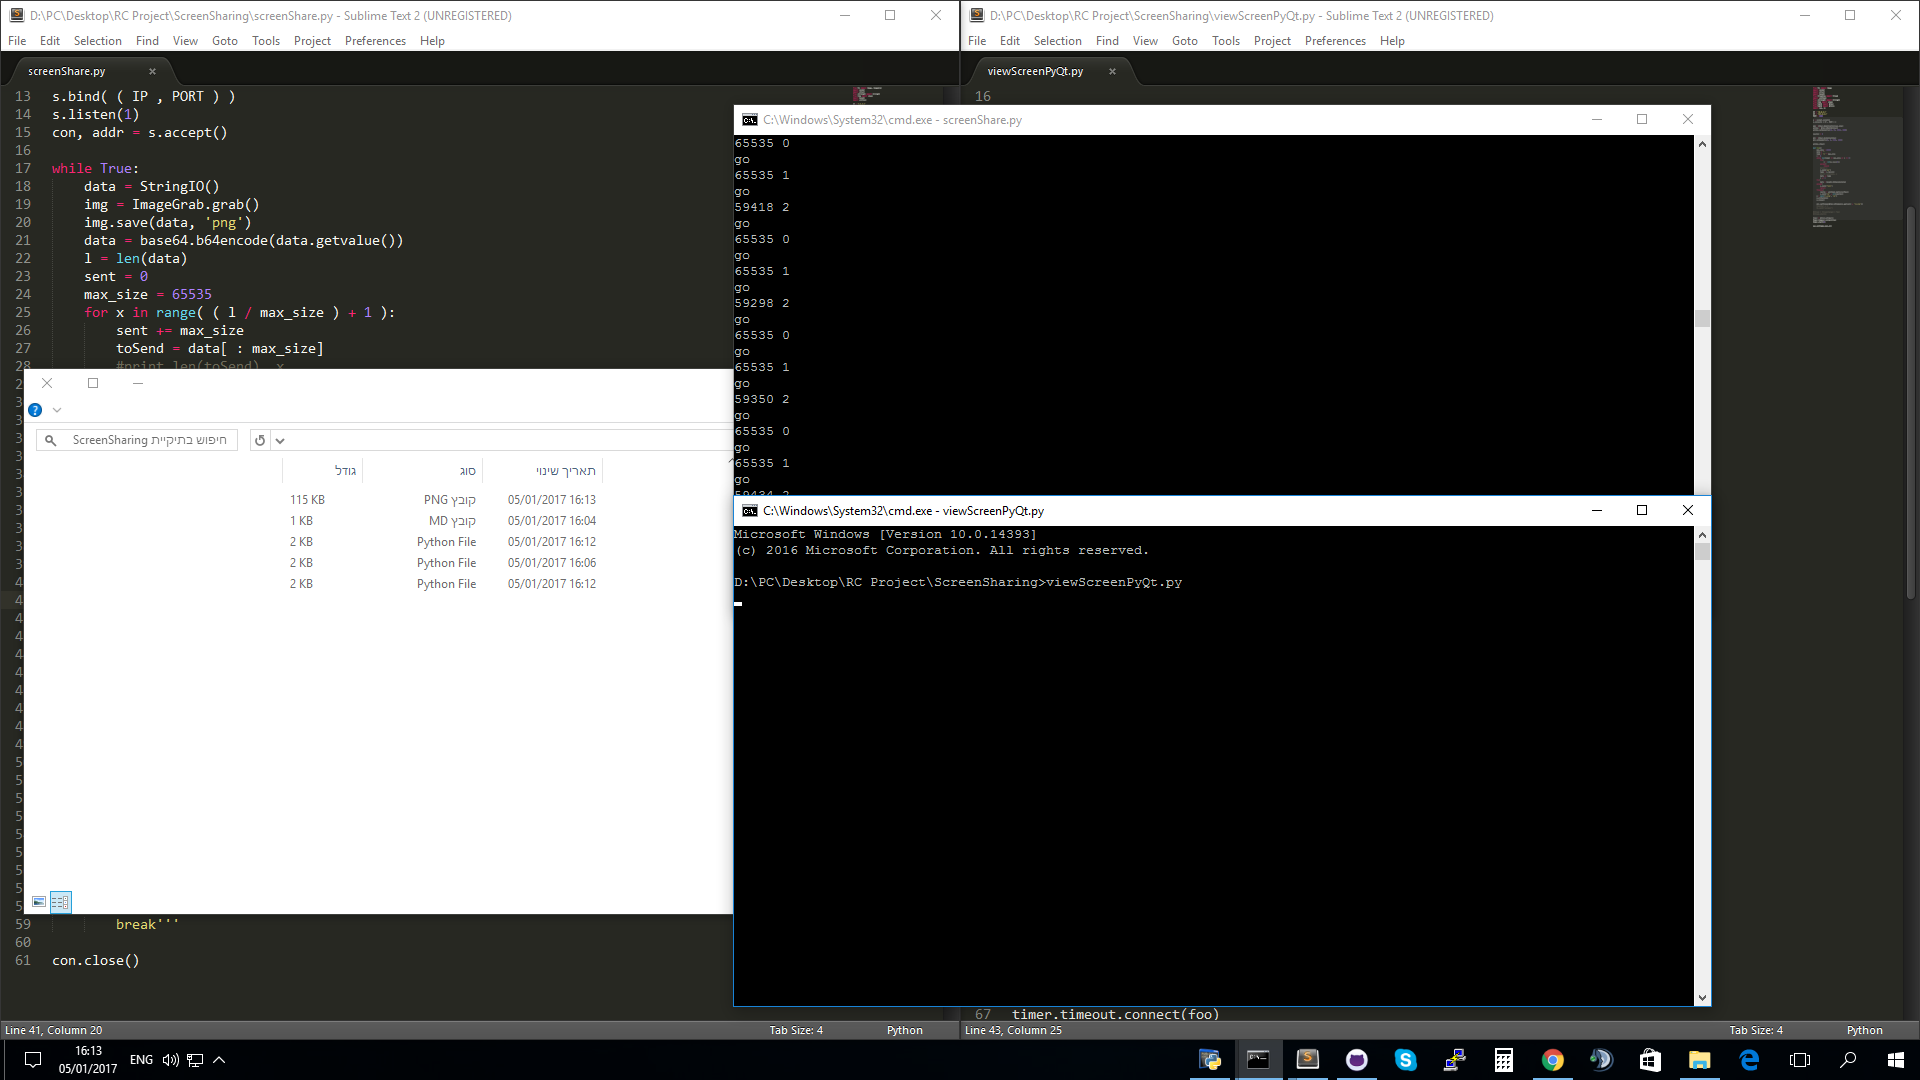
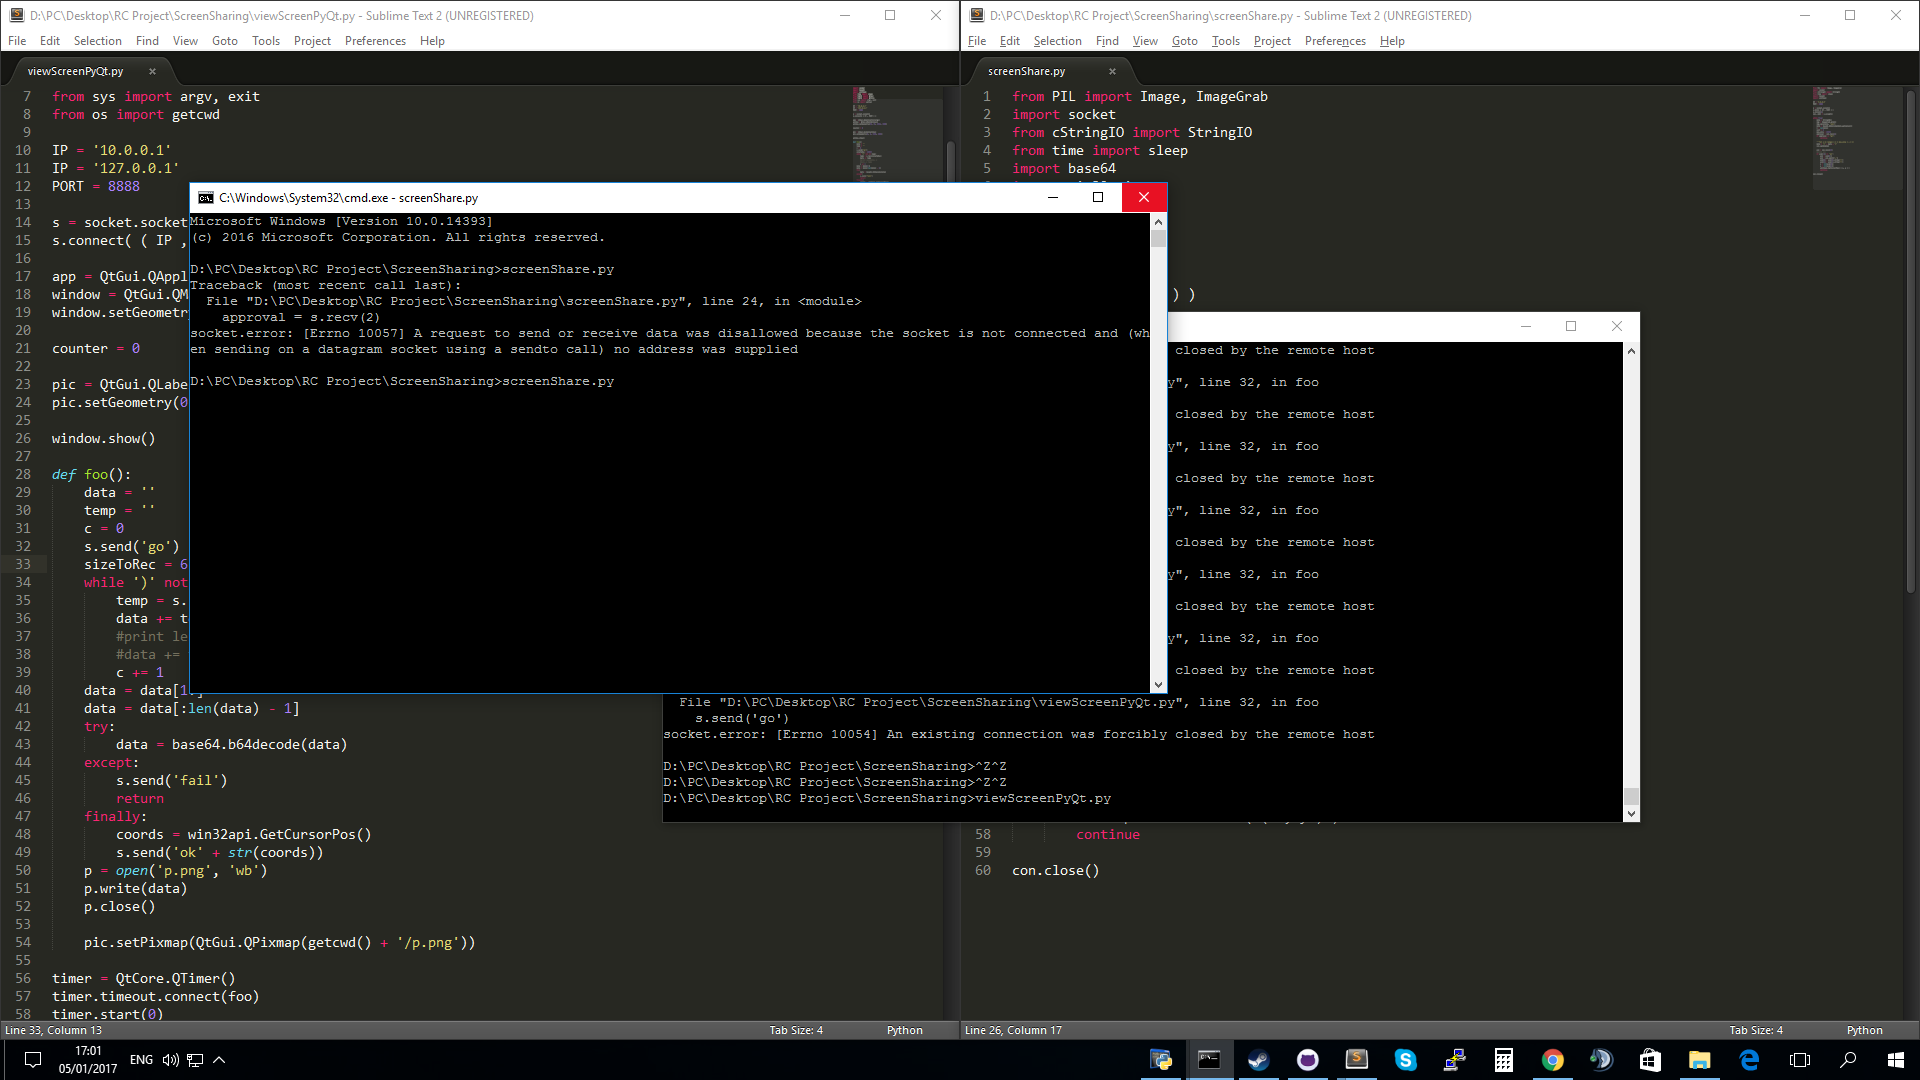
Communication improvements
using the ) protocol

diff --git a/viewScreenPyQt.py b/viewScreenPyQt.py
@@ -1,14 +1,11 @@
-from PIL import Image
 import socket
-import struct
 import base64
-from threading import Thread
 import win32api
-from cStringIO import StringIO
 from time import sleep
 from PyQt4 import QtGui
 from PyQt4 import QtCore
-import sys, os
+from sys import argv, exit
+from os import getcwd
 
 IP = '10.0.0.1'
 IP = '127.0.0.1'
@@ -17,7 +14,7 @@ PORT = 8888
 s = socket.socket()
 s.connect( ( IP , PORT ) )
 
-app = QtGui.QApplication(sys.argv)
+app = QtGui.QApplication(argv)
 window = QtGui.QMainWindow()
 window.setGeometry(30, 30, 1920, 1080)
 
@@ -29,15 +26,15 @@ pic.setGeometry(0, 0, 1920, 1080)
 window.show()
 
 def foo():
-	max_size = 65535
 	data = ''
-	temp = 'a' * max_size
 	temp = ''
 	c = 0
 	s.send('go')
-	while ')' is not in temp:
-		data += s.recv()
-		print len(data), c
+	sizeToRec = 65535
+	while ')' not in temp:
+		temp = s.recv(sizeToRec)
+		data += temp
+		#print len(data), c
 		#data += temp
 		c += 1
 	data = data[1:]
@@ -54,15 +51,10 @@ def foo():
 	p.write(data)
 	p.close()
 
-	pic.setPixmap(QtGui.QPixmap(os.getcwd() + '/p.png'))
-	#counter += 1
-	#s.send('success')
-
-#thread = Thread(target = foo)
-#thread.start()
+	pic.setPixmap(QtGui.QPixmap(getcwd() + '/p.png'))
 
 timer = QtCore.QTimer()
 timer.timeout.connect(foo)
 timer.start(0)
 
-sys.exit(app.exec_())
+exit(app.exec_())

diff --git a/screenShare.py b/screenShare.py
@@ -1,6 +1,5 @@
 from PIL import Image, ImageGrab
 import socket
-import struct
 from cStringIO import StringIO
 from time import sleep
 import base64
@@ -22,10 +21,11 @@ while True:
 	l = len(data)
 	sent = 0
 	max_size = 65535
-	approval = s.recv(2)
+	approval = con.recv(2)
 	if approval != "go":
 		continue
-	for x in range( ( l / max_size ) + 1 ):
+
+	'''for x in range( ( l / max_size ) + 1 ):
 		sent += max_size
 		toSend = data[ : max_size]
 		#print len(toSend), x
@@ -41,7 +41,10 @@ while True:
 			break
 		#print ack #For delay
 		t = con.send( toSend )
-		#print t, x
+		#print t, x'''
+	data = '(' + data + ')'
+	con.send(data)
+
 	ack = con.recv(15)
 	#print ack
 	if ack[:2] == 'ok':
@@ -53,12 +56,5 @@ while True:
 		y = int(ack[1])
 		win32api.SetCursorPos( ( x, y ) )
 		continue
-
-	'''ack = con.recv(7)
-	if ack == 'success':
-		#sleep(5)
-		continue
-	else:
-		break'''
 
 con.close()
